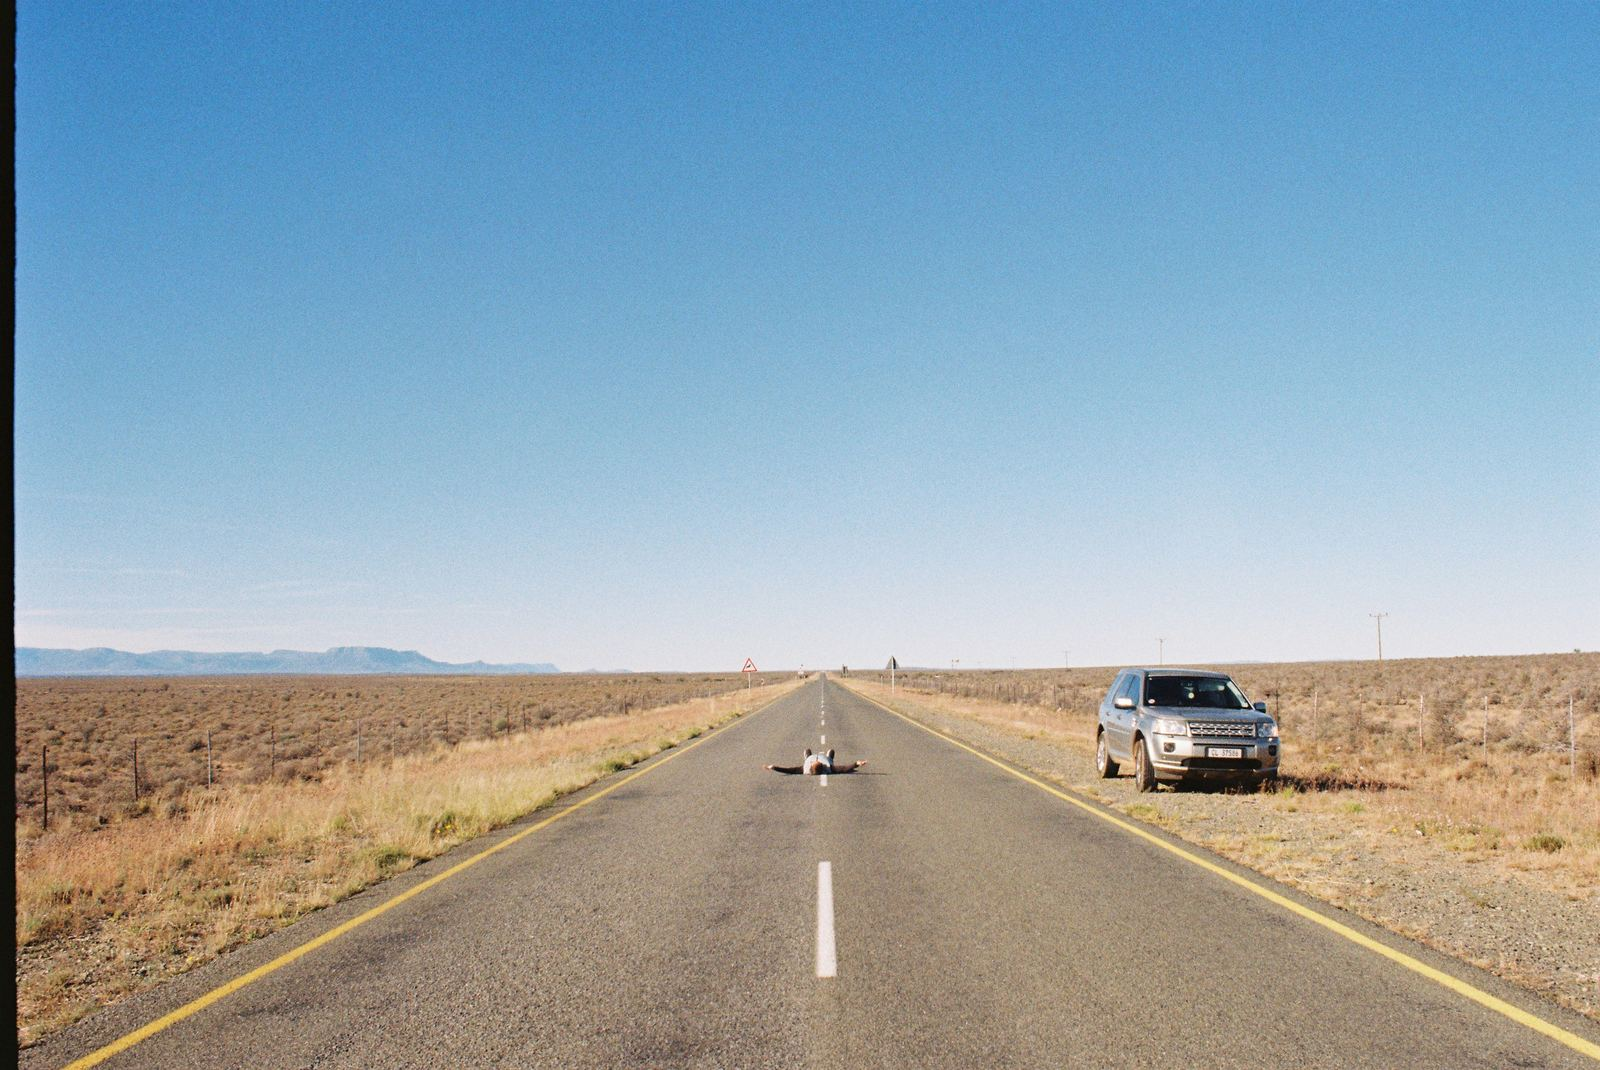
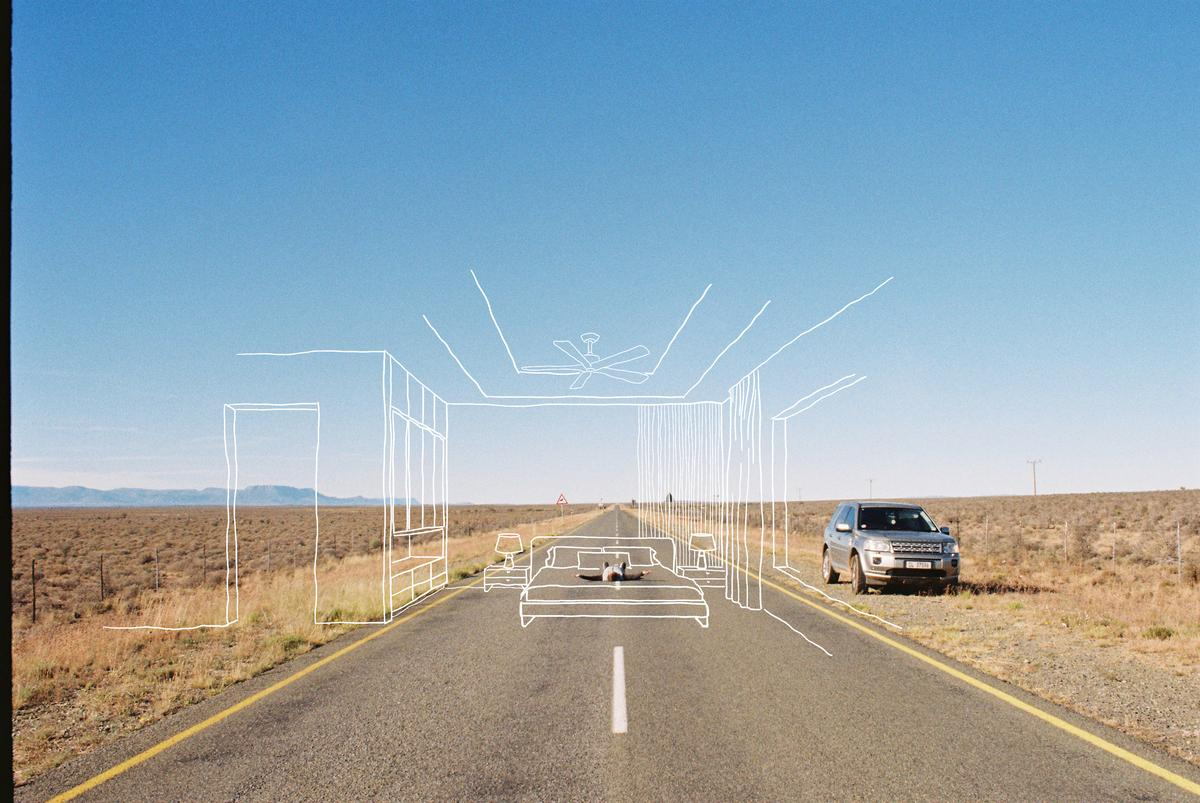
Add mobile hero image (Karoo road sketch) and restore responsive hero images

diff --git a/src/pages/HeroPage.jsx b/src/pages/HeroPage.jsx
@@ -16,7 +16,8 @@ export default function HeroPage() {
       <FadeIn>
         {/* Cover photo with heading overlay */}
         <div className="relative w-full h-[45vh] md:h-[100vh] overflow-hidden mt-14 md:mt-0">
-          <img src="/cover.jpg" alt="The Karoo" className="w-full h-full object-cover object-[center_60%]" />
+          <img src="/cover.jpg" alt="The Karoo" className="hidden md:block w-full h-full object-cover object-[center_60%]" />
+          <img src="/cover-mobile.jpg" alt="The Karoo" className="block md:hidden w-full h-full object-cover object-center" />
           <div className="absolute inset-0 bg-black/20" />
           <div className="absolute inset-0 flex items-start justify-center text-center px-6 md:px-16 pt-8 md:pt-20">
             <h1
